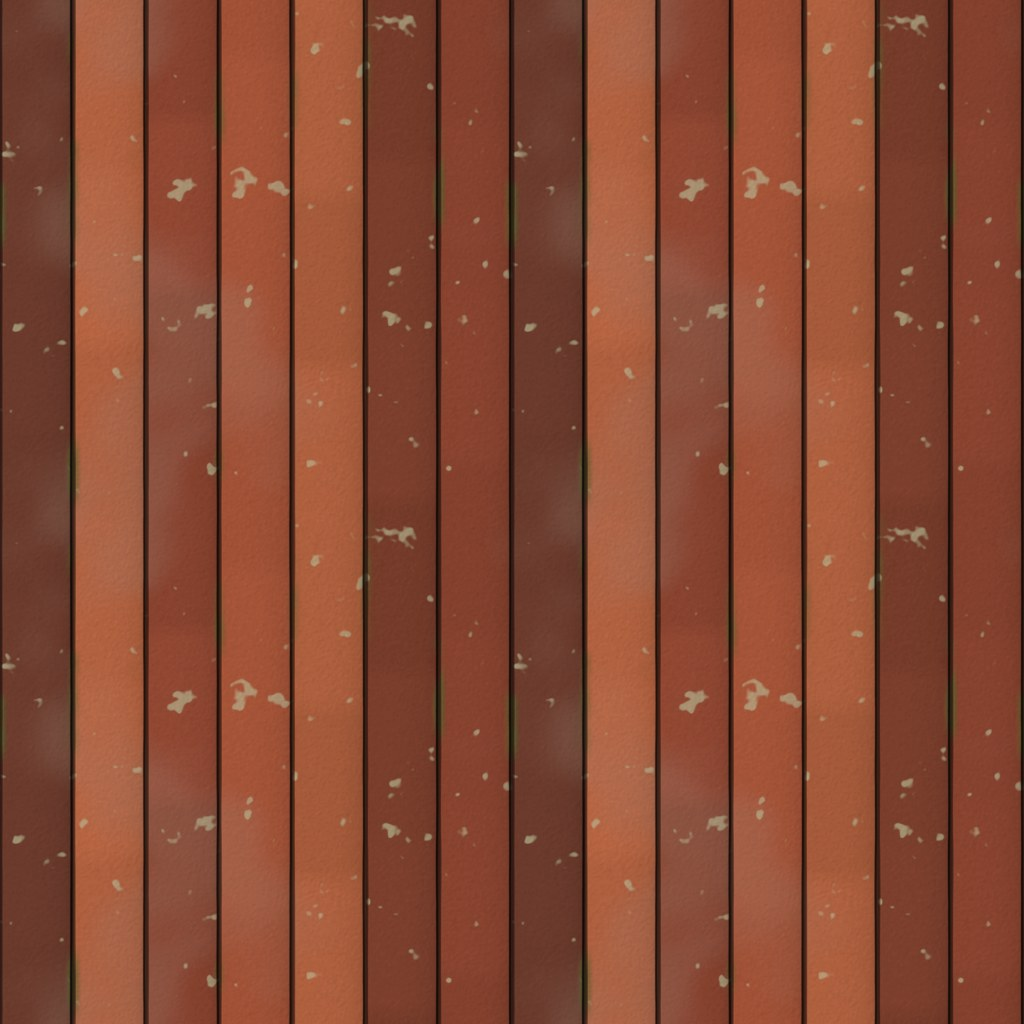
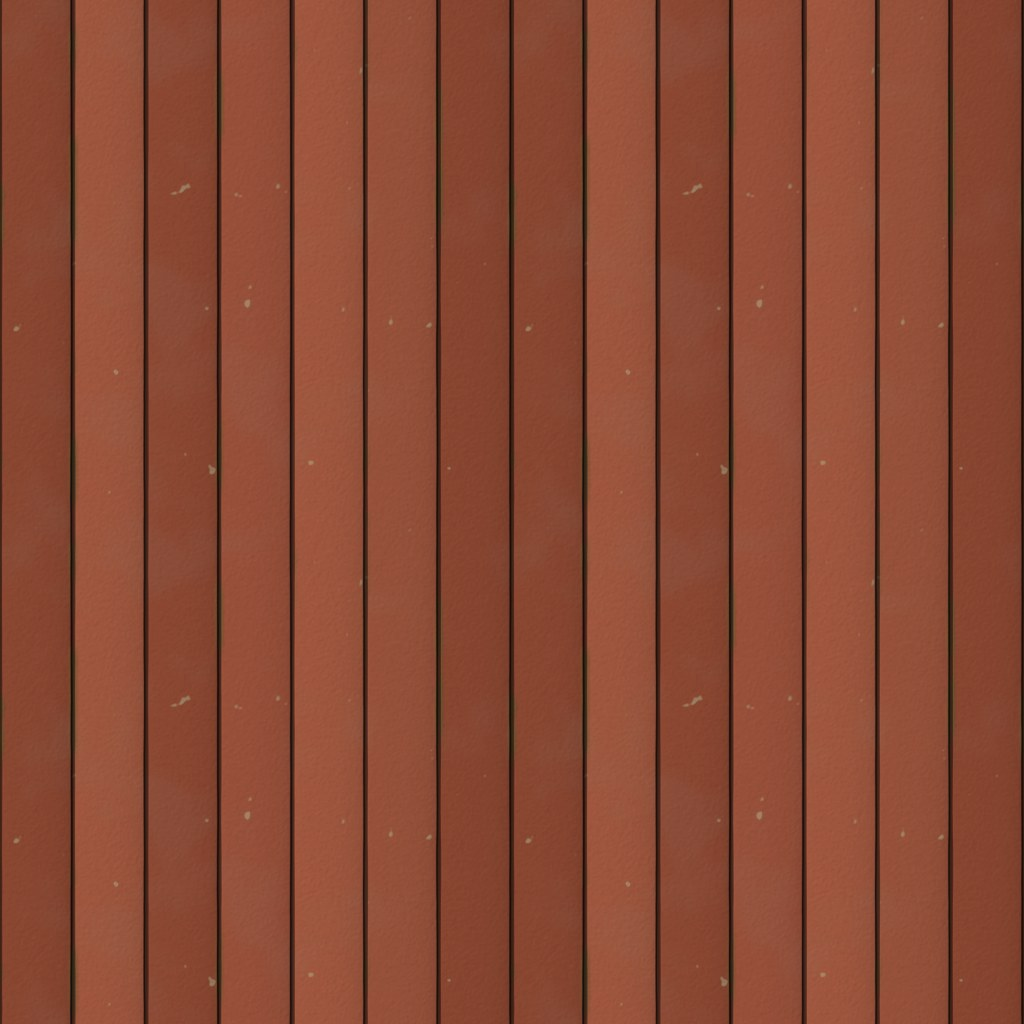
Darstellung: Ziegel- und Schieferdächer ohne Karomuster (Spalten je Modellreihe versetzt, Verwitterung)
Die Textur hatte durchgehende Spalten mit starkem Farbunterschied, das Modell
die Reihen: aus Spielhöhe ein Schachbrett. Neue Projektion „reihen“: Der Shader
versetzt die Spalten je Modellreihe (aus dot(ort, n) der Reihenfläche), Textur
mit fester Farbe je Spalte und kleinerem Unterschied, Laufspuren und Moos in
Dachkoordinaten über die Reihen. Dachziegel und Schiefer neu gebacken.

Claude-Session: https://claude.ai/code/session_016Yw37qCSJMoMyzR6gmxRFS

diff --git a/tools/oberflaeche/materialien_blender.py b/tools/oberflaeche/materialien_blender.py
@@ -50,10 +50,11 @@ bt.PROBEN = int(_opt.get("proben", 64))
 ZWISCHEN = os.path.expanduser(_opt.get("zwischen", "~/.cache/reichsgilde/materialien"))
 bt.ZWISCHEN = ZWISCHEN
 
-# Name, Kachelgröße in Metern, Projektion (wand: dreiseitig; dach: entlang der Dachneigung)
+# Name, Kachelgröße in Metern, Projektion (wand: an der Fläche ausgerichtet; dach: entlang der Dachneigung; reihen: dazu die
+# Spalten je Modellreihe versetzt, für Deckungen, deren Reihen das Modell als Form hat)
 SCHICHTEN = [
     ("bruchstein", 2.4, "wand"), ("quader", 2.4, "wand"), ("kalkputz", 3.0, "wand"), ("lehmputz", 2.0, "wand"),
-    ("fachwerkholz", 1.6, "wand"), ("bretter", 2.0, "wand"), ("dachziegel", 1.2, "dach"), ("schiefer", 1.2, "dach"),
+    ("fachwerkholz", 1.6, "wand"), ("bretter", 2.0, "wand"), ("dachziegel", 1.2, "reihen"), ("schiefer", 1.2, "reihen"),
     ("stroh", 1.5, "dach"), ("sandstein", 1.5, "wand"), ("ziegelstein", 1.2, "wand"),
 ]
 NAMEN = [s[0] for s in SCHICHTEN]
@@ -135,16 +136,6 @@ def verband(y, x, hoehen, laengen_von, rng, versatz_zufall=True):
         nummer[s] = zaehler + (i - 1) % len(stoesse)
         zaehler += len(stoesse)
     return nummer, ex, ey, lage, zaehler
-
-
-def stuecke(s, spalte, je):
-    """Stücke längs einer Spalte (Ziegel, Schiefer): `s` zählt die Stücke (ganze Zahl = Grenze), `je` Stücke je Kachel.
-    Gibt Nummer des Stücks, des nächsten Nachbarn und das Gewicht des eigenen (an der Grenze ½: weicher Übergang) zurück."""
-    f = s % 1
-    eigen = np.floor(s).astype(int)
-    andere = eigen + np.where(f >= 0.5, 1, -1)
-    gewicht = 0.5 + 0.5 * glatt(0.0, 0.06, np.minimum(f, 1 - f))
-    return eigen % je + je * spalte, andere % je + je * spalte, gewicht
 
 
 def flaechennetz(h, farbe, rau):
@@ -381,8 +372,11 @@ def bretter(rng):
 
 
 def dachziegel(rng):
-    """Biberschwanz, nur die Spalten (die Reihen hat das Modell als Form): Ziegel nebeneinander mit Stoßfugen, gewölbt,
-    Farbe je Stück (weich wechselnd längs der Spalte), Flechten und Moos, abgeplatzte Ecken."""
+    """Biberschwanz, nur die Spalten: Die Reihen hat das Modell als Form, der Shader versetzt die Spalten je Reihe (Projektion
+    „reihen“) – so wird aus jeder Spalte in jeder Reihe ein eigener Ziegel. Darum ist die Farbe längs der Spalte fest (sonst
+    wechselte sie mitten im Ziegel) und unterscheidet sich von Spalte zu Spalte nur wenig (sonst Streifen bzw. Karos aus der
+    Ferne). Gewölbt, feines Korn, kleine Flechten, Moos in den Stoßfugen; Laufspuren und Moosflecken über mehrere Reihen
+    legt der Shader in Dachkoordinaten darüber."""
     x, y = raster()
     k = K()
     spalten = 7
@@ -390,32 +384,28 @@ def dachziegel(rng):
     sp = np.clip((x // breite).astype(int), 0, spalten - 1)
     t = x / breite - sp
     rand = np.minimum(t, 1 - t) * breite + 0.002 * (fbm(71, [0.1, 0.03]) - 0.5)
-    fuge = glatt(0.002, 0.007, rand)
-    # Stücke längs der Spalte: je Spalte eigener Versatz, ~45 cm (so lang wie eine Reihe des Modells)
-    phase = je_zelle(sp, 72, spalten)
-    stueck_y = y / k * 3 + phase * 3
-    stueck, nachbar, gewicht = stuecke(stueck_y, sp, 3)
+    fuge = glatt(0.002, 0.006, rand)
+    woelbung = np.sqrt(np.clip(1 - (2 * t - 1) ** 2, 0, 1))
     korn = rauschen(0.005, 73)
-    h = fuge * (0.006 * np.sqrt(np.clip(1 - (2 * t - 1) ** 2, 0, 1)) + 0.0008 * korn) - 0.008 * (1 - fuge)
-    ton = palette(rng, spalten, [("#9a4e34", 3), ("#8a4430", 2), ("#a85c3c", 2), ("#7a3e2c", 1.5), ("#6a3a2c", 1),
-                                 ("#a0644a", 1)])
-    ton = np.repeat(ton, 3, 0) * rng.uniform(0.9, 1.1, 3 * spalten)[:, None]   # je Spalte ein Ton, je Stück wenig anders
-    farbe = mische(ton[nachbar], ton[stueck], gewicht)
-    farbe *= (0.9 + 0.18 * korn)[..., None]
-    farbe *= (0.85 + 0.15 * np.sqrt(np.clip(1 - (2 * t - 1) ** 2, 0, 1)))[..., None]
-    bleich = glatt(0.6, 0.9, fbm(74, [0.3, 0.1]))
-    farbe = mische(farbe, srgb("#9a7a68"), 0.2 * bleich)
-    flechte = glatt(0.8, 0.88, fbm(75, [0.04, 0.012]))
-    farbe = mische(farbe, srgb("#b0aa86"), 0.6 * flechte)
-    moos = glatt(0.65, 0.85, fbm(76, [0.2, 0.06])) * (1 - glatt(0.004, 0.02, rand))
-    farbe = mische(farbe, srgb("#4e5a2a"), 0.7 * moos)
-    farbe = mische(farbe, srgb("#2a1a14"), 0.85 * (1 - fuge))
+    h = fuge * (0.006 * woelbung + 0.0008 * korn) - 0.008 * (1 - fuge)
+    ton = palette(rng, spalten, [("#94503a", 3), ("#8c4a34", 2), ("#9a563e", 2), ("#884832", 1.5), ("#7e4630", 1)])
+    ton = ton / ton.mean(0) * np.array(srgb("#904c36")) * rng.uniform(0.95, 1.05, spalten)[:, None]
+    farbe = ton[sp]
+    farbe *= (0.93 + 0.12 * korn)[..., None]
+    farbe *= (0.9 + 0.1 * woelbung)[..., None]
+    farbe = mische(farbe, srgb("#8a6a58"), 0.12 * glatt(0.55, 0.9, fbm(74, [0.12, 0.04])))   # leicht ausgeblichen
+    flechte = glatt(0.84, 0.9, fbm(75, [0.03, 0.01]))
+    farbe = mische(farbe, srgb("#a8a07e"), 0.45 * flechte)
+    moos = glatt(0.55, 0.8, fbm(76, [0.15, 0.05])) * (1 - glatt(0.003, 0.014, rand))
+    farbe = mische(farbe, srgb("#4a5428"), 0.6 * moos)
+    farbe = mische(farbe, srgb("#2a1a14"), 0.8 * (1 - fuge))
     flaechennetz(h + 0.001 * moos, farbe, 0.75 + 0.15 * flechte + 0.1 * moos)
-    return 0.55, 1.0
+    return 0.5, 1.0
 
 
 def schiefer(rng):
-    """Schiefer, nur die Spalten: verschieden breite Stücke, spaltrauhe Oberfläche mit Schichtstufen, Farbe je Stück."""
+    """Schiefer, nur die Spalten (versetzt wie beim Dachziegel): verschieden breite Stücke, spaltrauhe Oberfläche mit
+    Schichtstufen, Farbe je Spalte fest und nah beieinander."""
     x, y = raster()
     k = K()
     b = rng.uniform(0.12, 0.24, 12)
@@ -428,19 +418,16 @@ def schiefer(rng):
     t = (wx - kanten[sp]) / b[sp]
     rand = np.minimum(wx - kanten[sp], kanten[sp + 1] - wx)
     fuge = glatt(0.002, 0.006, rand)
-    phase = je_zelle(sp, 82, n)
-    stueck_y = y / k * 4 + phase * 4
-    stueck, nachbar, gewicht = stuecke(stueck_y, sp, 4)
     schicht = np.floor(fbm(83, [0.08, 0.025]) * 6) / 6                 # Spaltstufen
     korn = rauschen(0.004, 84)
     h = fuge * (0.002 * schicht + 0.0006 * korn + 0.002 * t) - 0.006 * (1 - fuge)
-    ton = palette(rng, n, [("#4e5258", 3), ("#585c62", 2), ("#46484c", 2), ("#5a5450", 1), ("#50585a", 1)])
-    ton = np.repeat(ton, 4, 0) * rng.uniform(0.92, 1.08, 4 * n)[:, None]
-    farbe = mische(ton[nachbar], ton[stueck], gewicht)
-    farbe *= (0.9 + 0.15 * korn + 0.1 * schicht)[..., None]
-    flechte = glatt(0.82, 0.9, fbm(85, [0.03, 0.01]))
-    farbe = mische(farbe, srgb("#a8a89a"), 0.55 * flechte)
-    farbe = mische(farbe, srgb("#1c1e20"), 0.85 * (1 - fuge))
+    ton = palette(rng, n, [("#52565c", 3), ("#585c62", 2), ("#4c4e54", 2), ("#56534f", 1), ("#50575a", 1)])
+    ton = ton / ton.mean(0) * np.array(srgb("#53565b")) * rng.uniform(0.95, 1.05, n)[:, None]
+    farbe = ton[sp]
+    farbe *= (0.92 + 0.12 * korn + 0.08 * schicht)[..., None]
+    flechte = glatt(0.84, 0.91, fbm(85, [0.03, 0.01]))
+    farbe = mische(farbe, srgb("#a8a89a"), 0.45 * flechte)
+    farbe = mische(farbe, srgb("#1c1e20"), 0.8 * (1 - fuge))
     flaechennetz(h, farbe, 0.6 + 0.25 * korn + 0.15 * flechte)
     return 0.5, 1.0
 

diff --git a/game/scripts/Oberflaechendetails.cs b/game/scripts/Oberflaechendetails.cs
@@ -48,8 +48,9 @@ internal sealed class Oberflaechendetails
     private readonly List<(string Teil, int Art)> _artTeile = new();
     private readonly int _artFigur;
 
-    /// <summary>Eine Schicht der Material-Bibliothek: Nummer im Texture2DArray, Kachel in Metern, mittlere Farbe (linear), Dachprojektion.</summary>
-    private readonly record struct Schicht(int Nummer, float Kachel, Vector3 Mittel, bool Dach);
+    /// <summary>Eine Schicht der Material-Bibliothek: Nummer im Texture2DArray, Kachel in Metern, mittlere Farbe (linear), Dachprojektion,
+    /// Spalten je Modellreihe versetzt (Projektion „reihen“: Ziegel, Schiefer).</summary>
+    private readonly record struct Schicht(int Nummer, float Kachel, Vector3 Mittel, bool Dach, bool Reihen);
     private readonly Dictionary<string, Schicht> _bibliothek = new();
     private readonly TextureLayered? _bibFarbe, _bibNormalen;
 
@@ -104,8 +105,10 @@ internal sealed class Oberflaechendetails
             {
                 var d = liste[i].AsGodotDictionary();
                 var m = d["mittel"].AsGodotArray();
+                var projektion = d["projektion"].AsString();
                 schichten[d["name"].AsString()] = new Schicht(i, (float)d["kachel"].AsDouble(),
-                    new Vector3((float)m[0].AsDouble(), (float)m[1].AsDouble(), (float)m[2].AsDouble()), d["projektion"].AsString() == "dach");
+                    new Vector3((float)m[0].AsDouble(), (float)m[1].AsDouble(), (float)m[2].AsDouble()), projektion != "wand",
+                    projektion == "reihen");
             }
             foreach (var (name, schicht) in bib["namen"].AsGodotDictionary())
                 if (schichten.TryGetValue(schicht.AsString(), out var s)) _bibliothek[name.AsString()] = s;
@@ -180,6 +183,7 @@ internal sealed class Oberflaechendetails
             ziel.SetShaderParameter("bib_kachel", schicht.Kachel);
             ziel.SetShaderParameter("bib_mittel", schicht.Mittel);
             ziel.SetShaderParameter("bib_dach", schicht.Dach);
+            ziel.SetShaderParameter("bib_reihen", schicht.Reihen);
             ziel.SetShaderParameter("bib_farbe", _bibFarbe);
             ziel.SetShaderParameter("bib_nr", _bibNormalen);
         }

diff --git a/docs/ARCHITEKTUR.md b/docs/ARCHITEKTUR.md
@@ -193,7 +193,7 @@ Ein neuer Raum eines Berufs, der keinen der vorhandenen Räume im Modell hat, ka
 
 **Oberflächendetails im Spiel** (immer an; die Schlüssel `oberflaechendetails`, `holzschnitt` und `umriss` älterer Einstellungsdateien bleiben ungelesen; `game/scripts/Oberflaechendetails.cs`, `Stadtansicht.Oberflaechendetails.cs`): Das Spiel behält seine Materialien, die Details legen sich beim `RenderingServer` darüber. Die Klasse `Oberflaechendetails` leitet aus jedem Ausgangsmaterial (`StandardMaterial3D` des Modells oder der Grundkörper) ein `ShaderMaterial` mit `oberflaeche.gdshader` ab (Farbe = Albedo, Rauheit, Metall und Glanz übernommen, Materialart aus `materialarten.json` über den Namen; bei „Farben“ und „Figur“ aus Eckenfarbe und `UV`) und setzt es je Fläche mit `RenderingServer.InstanceSetSurfaceOverrideMaterial` bzw. `InstanceGeometrySetMaterialOverride`. Die Eigenschaften der Knoten bleiben unberührt: Das Spiel liest weiter `ResourceName`, färbt um und schaltet das Leuchten, und verlässt die Stadtansicht den Baum, gibt sie dem Server nur wieder an, was der Knoten selbst eingestellt hat (`Oberflaechendetails.Zuruecksetzen`). Je Ausgangsmaterial gibt es nur ein abgeleitetes Material, die Zeichenaufrufe steigen nicht. Es bleiben unverändert: Glut, Fenster, Glas und Wasser (Namen), alles Leuchtende, Durchsichtige und Unbeschattete, Materialien mit Textur (Auswahlring, Baumodus, Hilfslinien), fremde Shader (Fahnen) und Materialien der Art „keine“ (Putz, Eisen, Leder …: sie sähen genauso aus wie vorher).
 
-**Material-Bibliothek** (Modell-Texturen, Gruppe 1; `tools/oberflaeche/materialien_blender.py`, `game/daten/materialbibliothek.json`, Texturen in `game/assets/texturen/modelle/`): Elf gebackene, kachelbare Materialien zu 1024 px (Bruchstein, Quader, Kalkputz, Lehmputz, Fachwerkholz, Bretter, Dachziegel, Schiefer, Stroh, Sandstein, Ziegelstein). Das Skript baut wie die Bodentexturen je Material ein Höhenfeld mit einer Masche je Pixel (Stroh mit Halmen als Geometrie) und backt mit Cycles von vorn Grundfarbe, Normale, Verdeckung, Höhe und Rauheit; es leiht sich die Werkzeuge aus `bodentexturen_blender.py` (Rauschen, Zellen, Netze, Backen, WebP). Format wie der Boden: `modelle_farbe_hoehe.webp` (RGB Farbe sRGB, A Höhe) und `modelle_normal_rauheit.webp` (RG Normale OpenGL mit G+ zum oberen Bildrand, B Rauheit), je ein Texture2DArray mit einer Schicht je Material untereinander; oben im Bild ist an der Wand oben, auf dem Dach firstwärts. Das Skript schreibt in `materialbibliothek.json` die Schichten (Name, Kachel in Metern, Projektion `wand` oder `dach`, mittlere Farbe linear aus der geschriebenen Datei); die Zuordnung `namen` (Materialname → Schicht) wird von Hand gepflegt und bleibt beim Schreiben erhalten. Im Shader (`oberflaeche.gdshader`, Uniforms `bib`, `bib_kachel`, `bib_mittel`, `bib_dach`, `bib_stufe`) ersetzt die Bibliothek für diese Materialien die Struktur: eine Projektion je Fläche, an ihrer Normalen ausgerichtet (die Modelle sind kantig schattiert): u waagerecht in der Fläche, v an Wänden senkrecht (Lagen laufen um Ecken und Turmseiten weiter), auf Dächern firstwärts; Flächen, die nach oben schauen, liegen in x/z. Farbe = Textur / mittlere Farbe × Modellfarbe (im Mittel so hell und bunt wie die Modellfarbe; Hausfarben und Umfärben bleiben), dazu die großflächigen Flecken; die Normale der Textur wird entlang u und v angesetzt. `Oberflaechendetails` liest die Tabelle, gibt jedem abgeleiteten Material seiner Namen die Werte und stellt `Stufe` nach der Einstellung „Boden“ (`Stadtansicht.OberflaecheStufeNachfuehren`, aus `GrafikNachfuehren`): Niedrig 0 = Struktur wie bisher, Mittel 1 = Farbe der Bibliothek, Hoch 2 = dazu Normalen und Rauheit. Materialien der Art „keine“ (Putz) bekommen ein abgeleitetes Material, wenn sie in der Bibliothek stehen (auf Niedrig zeigt es nur die Modellfarbe).
+**Material-Bibliothek** (Modell-Texturen, Gruppe 1; `tools/oberflaeche/materialien_blender.py`, `game/daten/materialbibliothek.json`, Texturen in `game/assets/texturen/modelle/`): Elf gebackene, kachelbare Materialien zu 1024 px (Bruchstein, Quader, Kalkputz, Lehmputz, Fachwerkholz, Bretter, Dachziegel, Schiefer, Stroh, Sandstein, Ziegelstein). Das Skript baut wie die Bodentexturen je Material ein Höhenfeld mit einer Masche je Pixel (Stroh mit Halmen als Geometrie) und backt mit Cycles von vorn Grundfarbe, Normale, Verdeckung, Höhe und Rauheit; es leiht sich die Werkzeuge aus `bodentexturen_blender.py` (Rauschen, Zellen, Netze, Backen, WebP). Format wie der Boden: `modelle_farbe_hoehe.webp` (RGB Farbe sRGB, A Höhe) und `modelle_normal_rauheit.webp` (RG Normale OpenGL mit G+ zum oberen Bildrand, B Rauheit), je ein Texture2DArray mit einer Schicht je Material untereinander; oben im Bild ist an der Wand oben, auf dem Dach firstwärts. Das Skript schreibt in `materialbibliothek.json` die Schichten (Name, Kachel in Metern, Projektion `wand` oder `dach`, mittlere Farbe linear aus der geschriebenen Datei); die Zuordnung `namen` (Materialname → Schicht) wird von Hand gepflegt und bleibt beim Schreiben erhalten. Im Shader (`oberflaeche.gdshader`, Uniforms `bib`, `bib_kachel`, `bib_mittel`, `bib_dach`, `bib_reihen`, `bib_stufe`) ersetzt die Bibliothek für diese Materialien die Struktur: eine Projektion je Fläche, an ihrer Normalen ausgerichtet (die Modelle sind kantig schattiert): u waagerecht in der Fläche, v an Wänden senkrecht (Lagen laufen um Ecken und Turmseiten weiter), auf Dächern firstwärts; Flächen, die nach oben schauen, liegen in x/z. Projektion „reihen“ (Dachziegel, Schiefer; `bib_reihen`): Die Textur hat nur Spalten, die Reihen hat das Modell als je eine leicht gekippte Fläche (Sägezahn); deren Abstand vom Ursprung `dot(ort, n)` ist je Reihe fest und versetzt die Spalten je Reihe (kein Karomuster), dazu je Reihe etwas Helligkeit sowie Laufspuren und Moosflecken in Dachkoordinaten über die Reihen hinweg. Farbe = Textur / mittlere Farbe × Modellfarbe (im Mittel so hell und bunt wie die Modellfarbe; Hausfarben und Umfärben bleiben), dazu die großflächigen Flecken; die Normale der Textur wird entlang u und v angesetzt. `Oberflaechendetails` liest die Tabelle, gibt jedem abgeleiteten Material seiner Namen die Werte und stellt `Stufe` nach der Einstellung „Boden“ (`Stadtansicht.OberflaecheStufeNachfuehren`, aus `GrafikNachfuehren`): Niedrig 0 = Struktur wie bisher, Mittel 1 = Farbe der Bibliothek, Hoch 2 = dazu Normalen und Rauheit. Materialien der Art „keine“ (Putz) bekommen ein abgeleitetes Material, wenn sie in der Bibliothek stehen (auf Niedrig zeigt es nur die Modellfarbe).
 
 **Miniatur-Unschärfe, Wolkenschatten, Morgendunst, Farbstimmung und Detailstufe** (`game/scripts/Stadtansicht.Grafik.cs`, Werte aus `Fenster`, Ereignis `GrafikGeaendert`):
 - **Miniatur-Unschärfe (Tilt-Shift):** Die Stadtkamera hat eigene `CameraAttributesPractical` mit Tiefenunschärfe fern und nah. Die orthografische Kamera sieht den Boden zwischen den Tiefen 150 m ± Zoom/2 · cot 40° (halbe Tiefe); das scharfe Band reicht fern 35 % (Stark 18 %), nah 80 % (Stark 50 %) dieser halben Tiefe um den Drehpunkt, der Übergang 70 % (55 %). Nah ist es breiter, weil hohe Dinge (Turmspitzen, Dächer) näher an der Kamera liegen als der Boden darunter. `DofBlurAmount` 0,08 (Stark 0,16) mal 1,5 bei Zoom 25 bis 0,7 bei Zoom 140. Neu gerechnet nur, wenn Zoom oder Stufe sich ändern. Die Raumkamera hat keine Attribute, Räume bleiben scharf; die Oberfläche ist 2D und davon nicht betroffen.

diff --git a/docs/bereiche/darstellung.md b/docs/bereiche/darstellung.md
@@ -1039,5 +1039,6 @@ Folgerungen: FSR 2.2 lohnt sich auf der T400 kaum (67 %: −0,8 ms bei Hoch, in 
 | Projektion (Umsetzung) | Statt dreiseitig eine Projektion je Fläche, an ihrer Normalen ausgerichtet (alle Modelle sind kantig schattiert, nachgeprüft an Stadtmauer, Steinhaus, Fachwerkhaus, Dom): u waagerecht in der Fläche, v an Wänden senkrecht – die Lagen laufen um Ecken und um die Seiten der Achtecktürme weiter (dreiseitig verschwammen die 45°-Seiten der Türme in zwei Projektionen) –, auf Dächern firstwärts (`bib_dach`); nach oben schauende Flächen (Wände ab |n.y| > 0,7, flache Dächer) liegen in x/z. Eine Abtastung je Textur statt bis zu drei. Ziegel und Schiefer zeigen nur Spalten mit Stücken, keine Reihen (die Reihen hat das Modell, ihre Länge ist je Dach verschieden). | 25.10.2026 |
 | Stufen (Umsetzung) | Nach der Einstellung „Boden“ (`Oberflaechendetails.Stufe`, aus `Stadtansicht.GrafikNachfuehren`): Niedrig die Struktur wie bisher (Putz ohne Struktur), Mittel die Farbe der Bibliothek, Hoch dazu Normalen und Rauheit. | 25.10.2026 |
 | Holzfugen (Umsetzung) | In Gruppe 1 hatte nur das Fachwerkhaus modellierte Holzstreifen: die Deckleisten im Bretter-Giebel und an der Rückwand des Schuppens (`fachwerkhaus.py`). Entfernt, `fachwerkhaus.glb` neu exportiert: 1526 → 1472 Dreiecke, Knoten und Anker gleich, `pruefen.py` „in Ordnung“. Vorschaubild in `docs/modelle/` nicht neu. | 25.10.2026 |
+| Dachdeckung ohne Karos (Umsetzung) | Ziegel- und Schieferdächer wirkten kariert: Die Textur hatte durchgehende Spalten mit starkem Farbunterschied, das Modell die Reihen – aus Spielhöhe ein Schachbrett. Jetzt Projektion „reihen“ (`bib_reihen`): Jede Reihe des Modells ist eine eigene, leicht gekippte Fläche (`bausteine.zaehne`), ihr Abstand vom Ursprung `dot(ort, n)` ist auf der Fläche fest und springt von Reihe zu Reihe; daraus versetzt der Shader die Spalten je Reihe (stetige Funktion statt Würfel, Rechenrauschen verschiebt nichts) und ändert die Helligkeit um ±4 %. So wird jede Spalte in jeder Reihe ein eigener Ziegel mit versetzten Fugen. Textur: Farbe längs der Spalte fest, Unterschied von Spalte zu Spalte kleiner (±5 % um die Mitte), große Bleichflecken weg (sie wären je Reihe verschoben); Laufspuren (dunkel, schmal und lang in Fallrichtung) und Moosflecken (mehr auf der Nordseite) legt der Shader in Dachkoordinaten ohne Versatz über die Reihen. Normalen und Wölbung bleiben. Bildrate Greybox Hoch gleich (19,3 und 19,5 gegen 19,5 Bilder/s, GPU 25,1–25,4 ms). Dächer ohne modellierte Reihen (etwa die Halle in Köln) zeigen weiter durchgehende Spalten, nur ruhiger. | 25.10.2026 |
 | Messung | Vulkan auf der T400 unter Xvfb, `--messung=12 --vsync=Aus --voreinstellung=Hoch --startstunde=12`, Standardblick, je zwei Läufe abwechselnd gegen den Funktions-Branch vorher (4ba7555 = main ff1172b + Doku); gewertet der zweite Lauf (im ersten lief ein Godot-Klicktest eines anderen Teams mit, Bildzeit weit über der GPU-Zeit): Greybox 19,5 → 19,6 Bilder/s (GPU 24,99 → 24,97 ms), Köln 27,4 → 27,3 (GPU 20,48 → 20,40 ms). Kein messbarer Unterschied (Ziel höchstens −5 %). | 25.10.2026 |
 | Klicktest | Vulkan auf der T400, neu importiert, Mittag, Voreinstellung Hoch, ein Spielstand mit den Wohnhausstufen 0–3 bzw. 4 bei Spieler und KI-Häusern, vorher/nachher: Fachwerkhaus, Bürgerhaus, Steinhaus, Stadtpalais, Stadthof, Westtor mit Torburg und Mauer, Stadt aus Spielhöhe (Zoom 45), Köln (Ratsherren- und Bürgerhäuser der Einwohner, Mauer mit Toren); Niedrig, Mittel und Hoch am Steinhaus. Keine SCRIPT oder SHADER ERROR (die Fehlermeldungen in den Protokollen kommen erst beim Beenden des Prozesses durch das Skript). | 25.10.2026 |
